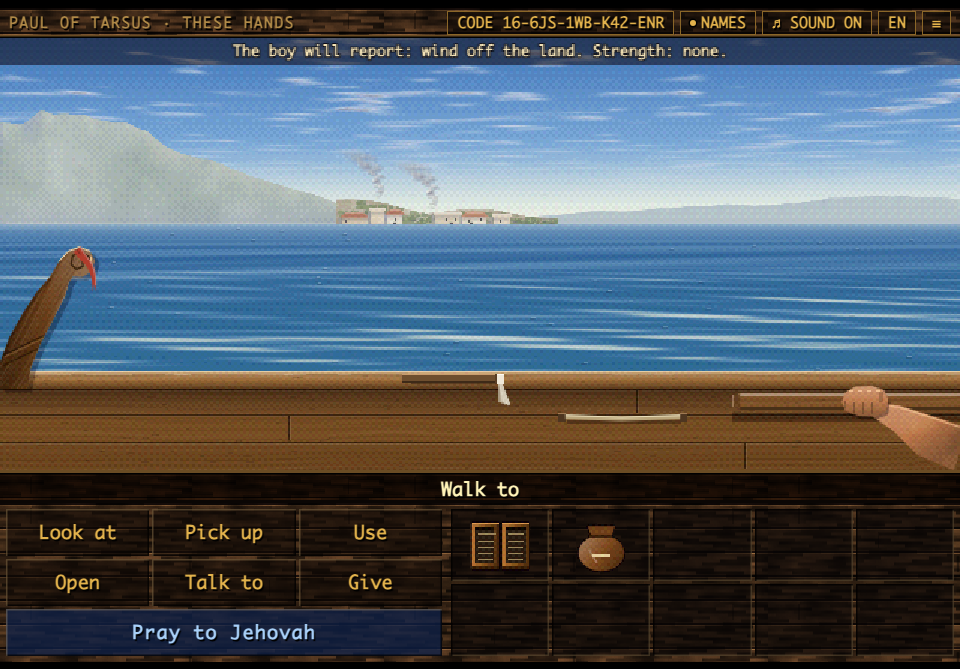
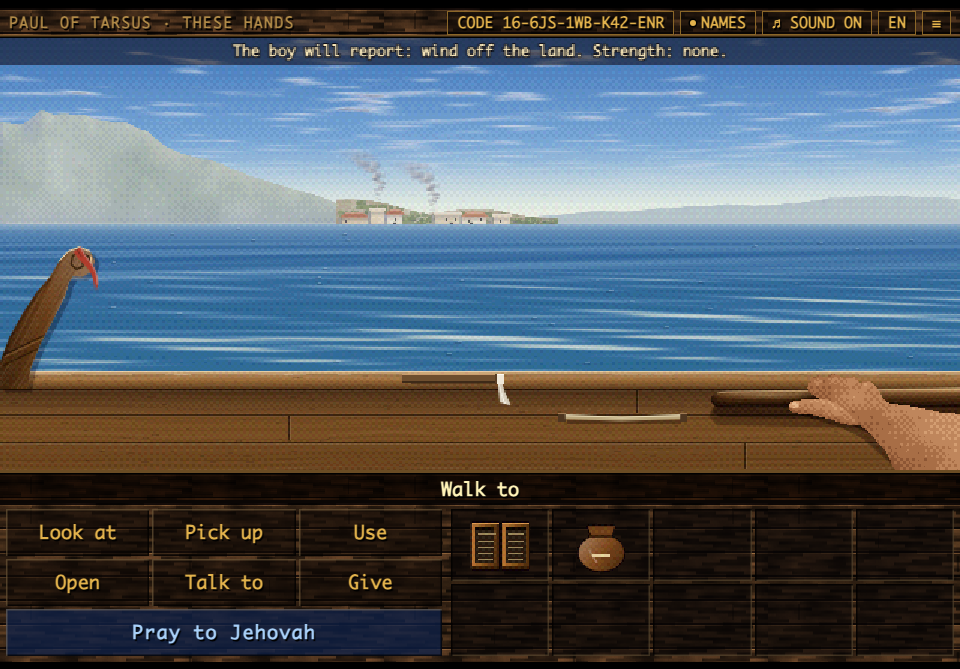
fixed chapter

Changed region(s): [[0.7188, 0.568, 1.0, 0.7175], [0.5, 0.568, 0.5312, 0.5979], [0.4375, 0.2691, 0.4688, 0.299]]

diff --git a/levels/chapter16.js b/levels/chapter16.js
@@ -755,7 +755,7 @@ function drawAssos16(g,t){const P=PAssos16;if(P.S)P.S.draw(g,t);if(P.H)P.H.draw(
    the shore is too far for smoke.
    Called from outside: ART.sky16, SKY16, ROUND16, TUFT16, CORD16. Reads G.sky16 (the tuft and the cord as the player has set them).
    Hotspots: the pennant 8,hz,44,20 · the smoke 86,24,80,36 (rounds 1 and 2) · the whitecaps 100,66,220,40 · the clouds 0,0,320,24 ·
-   the wool tuft 132,108,46,22 · the knotted cord 184,116,46,20 · the master 250,110,70,24 · back to the deck 0,134,100,10. */
+   the wool tuft 132,108,46,22 · the knotted cord 184,116,46,20 · the master 238,108,82,36 · back to the deck 0,134,100,10. */
 const SKY16={1:{hz:60,force:2,cloud:.32,seed:171},2:{hz:62,force:1,cloud:.26,seed:172,lee:1},3:{hz:58,force:3,cloud:.5,seed:173,swing:1}};
 const SKC16={};
 function oSky16(k){if(SKC16[k])return SKC16[k];const S=SKY16[k],W=SHARED.weather.wind({from:'n',force:S.force,view:'e',smoke:S.lee?{lee:1}:undefined}),
@@ -775,7 +775,7 @@ function paintSky16(g,k){const K=SHARED.coast,C=oSky16(k),O=C.O,HZ=SKY16[k].hz;l
   else tops.push(K.isle(g,0,250,7,O,{kind:'cape',from:'l',dist:.8,seed:179}).top);
   C.top=SHARED.coast.skyline(...tops);O.top=x=>Math.min(HZ,C.top(x));
   C.S=K.sea(g,O);C.S.open=(x,y)=>openSky16(k,x,y);
-  railSky16(g,k);ornSky16(g,k);handSky16(g)}
+  railSky16(g,k);ornSky16(g,k);tillerSky16(g)}
 function openSky16(k,x,y){const HZ=SKY16[k].hz;return y>HZ+.4&&y<110.5&&!(x<34&&y>HZ+3)}
 /* grainSky16: wood with its grain running along it: fine lines a little lighter or darker than the wood, which all wave alike and so
    never cross, and here and there a pore */
@@ -815,22 +815,119 @@ function ornSky16(g,k){const[hx,hy]=ORN16(k),W='#6c4828',
     stroke(g,[29.8,hy+5.6,29.6,hy+2.4,27,hy+1,24.2,hy+2,23.6,hy+4.8,25.4,hy+6.6,27.6,hy+5.6,27.4,hy+3.8],rgba(tint(W,-.55),.85),.6);
     stroke(g,[30.4,hy+5,30.2,hy+2.2],rgba('#f6dcae',.7),.5)});
   stroke(g,[19.6,hy+4,22.6,hy+.6,26.4,hy-.8,30,hy+.6],rgba('#fae2b6',.85),.5)}
-/* handSky16: the tiller of the steering oar, coming in from the right, level along the rail; the master's hand on it and his forearm */
-function handSky16(g){const W='#7a5634',S='#b47e58';
-  comp(g,'multiply',.4,()=>R(g,244,125,80,3,'#3a2a3a'));
-  R(g,246,118.6,76,5.4,W);R(g,246,118.6,76,1,tint(W,.35));R(g,246,123,76,1,tint(W,-.4));grainSky16(g,246,119.6,76,3.4,W,186,.8);
-  poly(g,[244.2,119.2,246.6,118.6,246.6,124,244.2,123.4],tint(W,-.2));R(g,244.2,119.2,.5,4.2,tint(W,.2));
-  /* the forearm from the lower right, bare and sunburnt, and the fist over the tiller: four fingers curled under it, knuckles lit */
-  const arm=[320,138,320,129,300,122.6,292,121.6,288.6,124.8,298,131,306,139,318,144];
-  poly(g,arm);g.fillStyle=lg(g,300,122,312,140,[tint(S,.18),S,tint(S,-.3)]);g.fill();
-  clipTo(g,()=>poly(g,arm),()=>{stroke(g,[320,129.6,300,123.2,292.6,122.2],rgba('#f2c8a0',.6),.6);tex(g,'mott',.2,286,120,36,24,'overlay',1)});
-  const fist=[281.8,118.2,285,116.2,290.6,116,294.6,117.4,296.2,120.4,295.4,124.6,291.6,126.2,286,126,282,124.6,280.6,121.4];
-  comp(g,'multiply',.4,()=>poly(g,fist.map((v,i)=>i%2?v+1:v+.6),'#3a2a3a'));
-  poly(g,fist);g.fillStyle=lg(g,0,116,0,126,[tint(S,.22),S,tint(S,-.25)]);g.fill();
-  clipTo(g,()=>poly(g,fist),()=>{for(const x of[284.6,287.6,290.6])R(g,x,121.4,.5,4.2,rgba(tint(S,-.45),.6));
-    for(const x of[282.6,285.6,288.6,291.6])R(g,x+.6,117.4,1.6,.5,rgba('#f6d2ac',.65));
-    R(g,293.2,118,1.4,3.6,rgba(tint(S,-.3),.5))});
-  R(g,281.4,121,.5,2.6,rgba(tint(S,-.4),.6))}
+/* tillerSky16: the tiller of the steering oar, coming in from the right, level along the stern rail in darker hand-worn oak so it stands
+   clear of the planking behind it, with its cast shadow and the shadow of the master's hand and forearm on the wood */
+function tillerSky16(g){
+  /* soft cast shadow of the tiller on the stern rail planking below and slightly left (morning sun from upper right) */
+  comp(g,'multiply',.32,()=>poly(g,[237.5,123.2,322,124.0,322,130.6,239,129.0,236.2,126.2],'#3a2838'));
+  comp(g,'multiply',.38,()=>poly(g,[238,123.0,322,123.8,322,127.6,239.5,126.4,237.2,124.8],'#2a1a28'));
+  /* the cylindrical wooden tiller bar: slightly tapered toward its rounded, hand-worn grip end at the left */
+  const bar=[241.5,118.0,322,116.8,322,124.2,241.5,123.6,238.4,122.9,237.0,121.4,237.0,119.8,238.4,118.5];
+  poly(g,bar);
+  g.fillStyle=lg(g,0,116.8,0,124.2,['#9c7248','#6a482a','#543820','#3c2614','#28170c','#462e1a']);g.fill();
+  clipTo(g,()=>poly(g,bar),()=>{
+    grainSky16(g,236,116.5,86,8,'#543820',186,.95);
+    /* sunlit upper ridge and worn polish along the grip where hands hold it */
+    g.fillStyle=lg(g,0,116.9,0,119.6,['rgba(248,214,166,.58)','rgba(248,214,166,.12)','rgba(248,214,166,0)']);g.fillRect(237,116.5,85,3.2);
+    pool(g,256,119.2,16,1.6,'#f6d6a6',.22,'screen');
+    /* darker end-grain bevel on the rounded tip facing left */
+    g.fillStyle=lg(g,236.8,0,242.5,0,['rgba(22,12,8,.68)','rgba(22,12,8,.18)','rgba(22,12,8,0)']);g.fillRect(236.5,116.5,6.5,8);
+    /* cool bounce and deep core shadow along the lower curve */
+    g.fillStyle=lg(g,0,121.2,0,124.2,['rgba(16,10,14,0)','rgba(16,10,14,.48)','rgba(92,66,44,.22)']);g.fillRect(236,121,86,3.4);
+    /* soft contact occlusion where the forefinger and thumb press into the tiller wood */
+    pool(g,271,120.4,5.5,3.5,'#180e0a',.48,'multiply');pool(g,266,122.4,6.5,2.4,'#180e0a',.42,'multiply')});
+  stroke(g,[239.2,118.4,242.0,118.0,322,116.9],'rgba(255,232,190,.42)',.5);
+  /* soft cast shadows of Pamphilos' hand, thumb and forearm falling down-left onto the tiller and stern planking */
+  comp(g,'multiply',.36,()=>poly(g,[262.5,124.2,270.0,126.8,280.0,129.6,287.5,133.2,294.5,139.6,299.5,144,322,144,322,127,288,119.5,268,120],'#382638'));
+  comp(g,'multiply',.44,()=>poly(g,[263.4,123.4,272.5,125.6,283.5,128.6,290.8,132.4,297.5,138.8,302.5,144,316,144,310,127,286,120,269,120.5],'#261826'))}
+/* handSky16: Pamphilos' right hand and bare sunburnt forearm gripping the tiller, painted in smooth Catmull-Rom curves and grayscale
+   lighting and quantized once with Bayer ordered dithering onto a weathered skin-tone ramp (as shared/scroll.js paints close-up hands).
+   Baked once at HR=2 into a 90x44 room-pixel canvas (x 230..320, y 100..144) and drawn by drawSky16 so it is never double-dithered. */
+let HANDSky16=null;
+function handSky16(){if(HANDSky16)return HANDSky16;
+  const OX=230,OY=100,W=90,H=44,[c,g]=mk(W*HR,H*HR);g.scale(HR,HR);g.translate(-OX,-OY);
+  const sp=(p,cl)=>{const n=p.length/2,P=i=>{i=cl?(i%n+n)%n:clamp(i,0,n-1);return[p[2*i],p[2*i+1]]};
+    g.beginPath();g.moveTo(p[0],p[1]);
+    for(let i=0;i<(cl?n:n-1);i++){const a=P(i-1),b=P(i),q=P(i+1),d=P(i+2);
+      g.bezierCurveTo(b[0]+(q[0]-a[0])/6,b[1]+(q[1]-a[1])/6,q[0]-(d[0]-b[0])/6,q[1]-(d[1]-b[1])/6,q[0],q[1])}
+    if(cl)g.closePath()},
+    bl=(p,col)=>{sp(p,1);if(col){g.fillStyle=col;g.fill()}},
+    sl=(p,col,w)=>{sp(p,0);g.strokeStyle=col;g.lineWidth=w||.5;g.lineCap='round';g.lineJoin='round';g.stroke()},
+    W_=a=>`rgba(255,255,255,${a})`,K_=a=>`rgba(0,0,0,${a})`,GV=v=>{const k=Math.round(clamp(v,0,1)*255);return`rgb(${k},${k},${k})`};
+  /* 1. Continuous silhouette of forearm, tapered wrist, back of hand and four curled finger arches over the tiller (all below y=112,
+        keeping clear of the rail top edge at y=111 and the sea above it) */
+  const HAND=[
+    322,127.6, 312.5,124.8, 303.2,122.8, 296.0,121.6,   /* sunlit upper forearm tapering smoothly into wrist */
+    293.4,118.4, 291.6,115.6, 289.2,114.4, 286.6,115.0, /* pinky arch */
+    285.8,113.6, 283.4,112.9, 280.8,113.8,              /* ring arch */
+    279.8,112.7, 277.2,112.3, 274.8,113.5,              /* middle arch */
+    273.6,112.8, 271.2,113.1, 269.6,115.2,              /* index arch curling down-left over the tiller */
+    269.4,117.6, 271.4,119.2, 274.2,120.8,              /* radial edge entering the thumb web cleanly */
+    279.2,125.6, 285.6,128.4, 289.8,131.6, 295.4,137.8, /* smooth transition from palm heel into wrist and forearm underside */
+    301.2,145.5, 322,145.5];
+  bl(HAND,GV(.55));
+  clipTo(g,()=>bl(HAND),()=>{
+    /* cylindrical directional lighting: morning sun from upper right, rolling smoothly into deeper shadow down and to the left */
+    g.fillStyle=lg(g,302,113,280,141,[[0,W_(.38)],[.34,W_(.06)],[.52,K_(.06)],[1,K_(.56)]]);g.fillRect(267,110,57,37);
+    /* rounded cylindrical modeling of the forearm: bright upper crest, broad core shadow along its underside */
+    sl(g,[321.5,128.8,312,126.0,302.8,124.0,295.8,122.6],W_(.36),2.8);
+    pool(g,312,131.5,12,4.6,'#ffffff',.16,'source-over');
+    sl(g,[284.5,128.4,290.2,132.2,296.2,138.4,302.5,145.2],K_(.46),4.4);
+    /* sunlit dome across the back of the hand (metacarpals) and subtle ulnar wrist bone highlight */
+    pool(g,284.2,120.2,9.2,4.8,'#ffffff',.24,'source-over');
+    pool(g,296.8,125.4,3.6,2.4,'#ffffff',.18,'source-over');
+    /* subtle tendons radiating from the wrist up into the knuckles */
+    for(const t of[[294.2,123.6,288.4,121.0,283.4,117.6],[292.6,125.0,285.4,122.0,278.0,117.4],[290.2,126.0,282.2,122.6,273.8,117.6]]){
+      sl(g,t,W_(.15),.8);sl(g,t.map((v,i)=>i%2?v+.75:v-.2),K_(.13),.65)}
+    /* individual finger volume: lit knuckle domes, darker far-side curl where each finger wraps away over the tiller,
+       and soft curved inter-finger crevices that fade cleanly onto the back of the hand (never cutting the fingers off) */
+    const F=[
+      {cx:288.6,cy:115.6,rx:2.2,ry:1.5,cr:[286.2,114.6,285.6,116.8,286.0,118.6]},
+      {cx:283.4,cy:114.5,rx:2.4,ry:1.6,cr:[280.6,113.4,280.2,116.0,280.8,118.2]},
+      {cx:277.6,cy:114.0,rx:2.5,ry:1.7,cr:[274.6,113.2,274.4,115.8,275.2,118.2]},
+      {cx:272.2,cy:114.6,rx:2.2,ry:1.6,cr:null}];
+    for(const f of F){
+      /* slight shadow at the very top curl turning away from the sun over the tiller */
+      pool(g,f.cx-.6,f.cy-1.6,f.rx*1.05,1.1,'#000000',.24,'source-over');
+      /* sunlit knuckle/finger dome */
+      pool(g,f.cx+.3,f.cy+.2,f.rx,f.ry,'#ffffff',.28,'source-over');
+      /* delicate curved knuckle skin fold */
+      sl(g,[f.cx-1.3,f.cy+1.2,f.cx+.1,f.cy+1.5,f.cx+1.4,f.cy+1.1],GV(.4),.42);
+      if(f.cr){
+        sl(g,f.cr,K_(.38),.95);
+        sl(g,f.cr.map((v,i)=>i%2?v:v+.65),W_(.14),.55)}}
+    /* shadow along the left edge of the index finger where it turns down into the tiller crook */
+    sl(g,[270.0,114.2,269.4,116.4,270.6,118.6],K_(.36),1.2);
+    /* subtle curved wrist skin creases */
+    for(const c0 of[[291.2,122.8,293.4,125.6,296.0,128.0],[293.8,122.4,295.8,125.0,298.0,127.0]]){
+      sl(g,c0,GV(.38),.48);sl(g,c0.map((v,i)=>i%2?v-.45:v+.45),W_(.12),.42)}
+    tex(g,'mott',.16,267,110,57,37,'overlay',.5)});
+  /* 2. Articulated thumb curving naturally along the near-front curve of the tiller, shorter and relaxed, with joint folds and nail */
+  const THUMB=[285.8,128.2,281.4,123.6,276.6,121.0,271.8,120.4,267.4,120.7,264.0,121.4,262.8,122.6,263.4,124.2,
+    266.2,125.2,270.4,125.6,275.4,126.8,280.6,128.4,284.6,129.0];
+  bl(THUMB,GV(.58));
+  clipTo(g,()=>bl(THUMB),()=>{
+    /* cylindrical shading along the thumb: sunlit upper curve, shaded fleshy pad pressing along the tiller */
+    g.fillStyle=lg(g,273,119.8,271,127.6,[[0,W_(.36)],[.38,W_(.05)],[.58,K_(.08)],[1,K_(.5)]]);g.fillRect(261,119,27,12);
+    sl(g,[277.0,121.8,272.2,121.2,267.8,121.4],W_(.28),1.2);
+    pool(g,278.0,124.8,4.6,2.4,'#ffffff',.18,'source-over');
+    /* weathered thumbnail tucked naturally at the left tip (warm ivory-tan, never stark white) */
+    bl([263.4,121.9,265.2,121.4,266.6,121.9,266.3,123.1,264.6,123.5,263.2,122.9],GV(.78));
+    bl([264.0,121.9,265.4,121.6,266.0,122.2,264.6,122.6],GV(.9));
+    sl(g,[266.0,121.5,266.7,122.3,266.2,123.3],GV(.42),.45);
+    /* curved folds over the thumb knuckle (IP joint) */
+    for(const f0 of[[269.4,120.8,270.0,122.2,269.4,123.6],[271.2,120.8,271.8,122.3,271.2,123.8]]){
+      sl(g,f0,GV(.36),.48);sl(g,f0.map((v,i)=>i%2?v:v+.55),W_(.14),.42)}
+    /* gentle fold where the thenar mound meets the palm */
+    sl(g,[277.6,122.4,280.2,124.4,282.8,126.8],GV(.4),.5);
+    tex(g,'mott',.14,261,119,27,12,'overlay',.45)});
+  /* quantize the whole hand layer once onto a weathered sunburnt skin ramp with Bayer ordered dithering */
+  const SKIN16=['#361c12','#522c1b','#704026','#8d5634','#a86e46','#bf865c','#d49e72','#e6b98e','#f4d4b0'].map(hex),
+    w=c.width,h=c.height,im=g.getImageData(0,0,w,h),d=im.data,n=SKIN16.length-1;
+  for(let y=0,i=0;y<h;y++)for(let x=0;x<w;x++,i+=4){if(d[i+3]<128){d[i+3]=0;continue}d[i+3]=255;
+    const v=(d[i]*.3+d[i+1]*.59+d[i+2]*.11)/255*n,t=(BAYER[(((y+OY*HR)>>1)&3)*4+(((x+OX*HR)>>1)&3)]+.5)/16,p=SKIN16[clamp(Math.floor(v+t),0,n)];
+    d[i]=p[0];d[i+1]=p[1];d[i+2]=p[2]}
+  g.putImageData(im,0,0);return HANDSky16=c}
 function drawSky16(g,t){const k=ROUND16(),C=oSky16(k),S=SKY16[k],Wt=SHARED.weather;
   if(!C.S){C.S=SHARED.coast.seaMotion(C.O);C.S.open=(x,y)=>openSky16(k,x,y)}
   if(!C.L)C.L=SHARED.coast.skyLayer(C.O);C.L.draw(g,t);
@@ -850,7 +947,8 @@ function drawSky16(g,t){const k=ROUND16(),C=oSky16(k),S=SKY16[k],Wt=SHARED.weath
   const cy=126.4;comp(g,'multiply',.35,()=>R(g,189,cy+1,38,1.2,'#3a2a3a'));
   R(g,186,cy-1.6,2.4,3.2,'#4e3620');R(g,226.6,cy-1.6,2.4,3.2,'#4e3620');R(g,186,cy-1.6,2.4,.5,'#a07a52');R(g,226.6,cy-1.6,2.4,.5,'#a07a52');
   stroke(g,[188.4,cy,207,cy+.6,226.6,cy],'#b8a47a',1.5);stroke(g,[188.4,cy-.5,207,cy+.1,226.6,cy-.5],'#ece0bc',.5);
-  for(let i=0;i<sk.str;i++){const x=197+i*10;R(g,x-2,cy-1.8,4,3.6,'#9a8258');R(g,x-2,cy-1.8,4,.8,'#e8d8ac');R(g,x+1.4,cy-1,.6,2.6,'#5e4c30');R(g,x-1,cy-.4,1.4,.5,'#c8b488')}}
+  for(let i=0;i<sk.str;i++){const x=197+i*10;R(g,x-2,cy-1.8,4,3.6,'#9a8258');R(g,x-2,cy-1.8,4,.8,'#e8d8ac');R(g,x+1.4,cy-1,.6,2.6,'#5e4c30');R(g,x-1,cy-.4,1.4,.5,'#c8b488')}
+  g.drawImage(handSky16(),230,100,90,44)}
 function frontSky16(g){const sk=sky16();R(g,0,0,320,9,'rgba(14,10,18,.55)');cap16(g,T('the_boy_will_report',{dir:T(TUFT16[sk.dir].n),str:T(CORD16[sk.str])}),160,4.6,300)}
 /* ==== ART sky16: end ==== */
 
@@ -1544,7 +1642,7 @@ ROOMS.sky16={space:.4,walk:NOW,get mood(){return'sail'},get amb(){return ROUND16
   {name:'whitecaps',x:100,y:66,w:220,h:40,wx:160,wy:236,look:()=>say(PC(),['a_few_whitecaps','no_whitecaps','whitecaps_everywhere'][ROUND16()-1])},
   {name:'wool_tuft',x:132,y:108,w:46,h:22,wx:160,wy:236,def:'use',look:()=>say(PC(),T('tuft_set_to',{dir:T(TUFT16[sky16().dir].n)})),use:setTuft,pickup:setTuft},
   {name:'knotted_cord',x:184,y:116,w:46,h:20,wx:160,wy:236,def:'use',look:()=>say(PC(),T('cord_set_to',{str:T(CORD16[sky16().str])})),use:setCord,pickup:setCord},
-  {name:'Pamphilos',x:250,y:110,w:70,h:24,wx:160,wy:236,def:'talk',look:'pamphilos_hand_on_the_tiller',talk:report,use:report},
+  {name:'Pamphilos',x:238,y:108,w:82,h:36,wx:160,wy:236,def:'talk',look:'pamphilos_hand_on_the_tiller',talk:report,use:report},
   {name:'back_to_the_deck',x:0,y:134,w:100,h:10,wx:160,wy:236,exit:()=>goto16('deck16'),look:'back_to_the_deck_look'}].map(BOTH)};
 ROOMS.watch16={space:.5,walk:NOW,mood:'anchor',amb:AMB.eve16,hs:[
   ...WATCHES16.map((k,i)=>({name:k,x:20,y:ROWS16[i],w:280,h:22,wx:160,wy:236,def:'use',look:()=>say(PC(),'watch_row_look'),use:()=>layRow(i+1)})),
